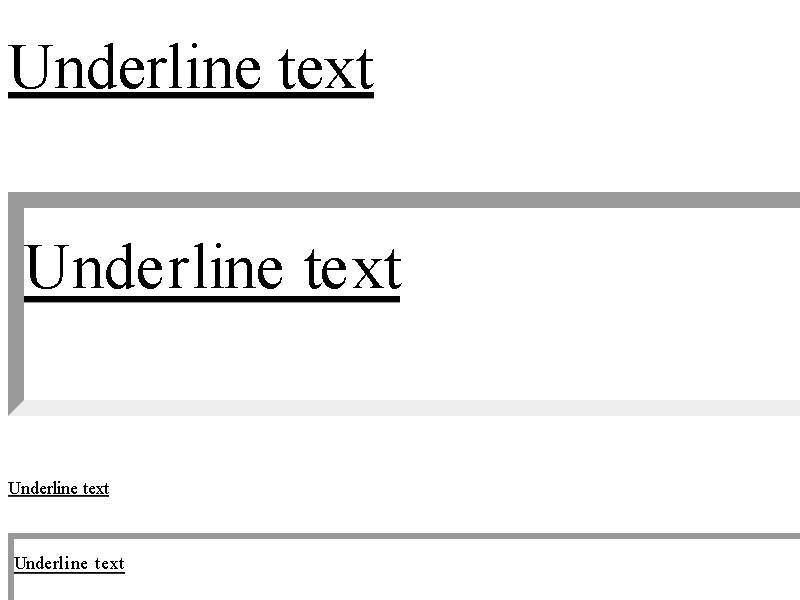
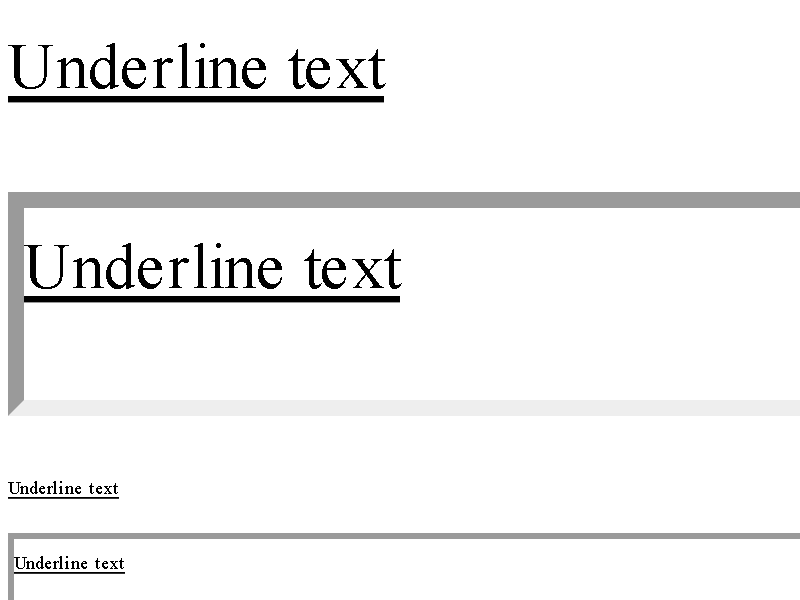
[svg] Disable outer transforms affecting font-size within SVG.
This was last tried in: https://codereview.chromium.org/2492013004 But
was reverted due to an issue with a site.

Since then we've added complex invalidation for this logic which
difficult to maintain, and relatively slow. Lets try disabling it again.

The code we can remove is:
https://chromium-review.googlesource.com/c/chromium/src/+/8280335

Behind the flag: SvgIgnoreOuterTransforms

Bug: 41286051
Commit-Queue: Ian Kilpatrick <ikilpatrick@chromium.org>
Cr-Commit-Position: refs/heads/main@{#1689023}

Changed region(s): [[0.0, 0.06, 0.5, 0.18], [0.0, 0.81, 0.1562, 0.84]]

diff --git a/renderer/core/layout/layout_block.cc b/renderer/core/layout/layout_block.cc
@@ -120,7 +120,8 @@ void LayoutBlock::StyleDidChange(
   // Computes old scaling factor before PaintLayer::UpdateTransform()
   // updates Layer()->Transform().
   double old_squared_scale = 1;
-  if (Layer() && diff.transform_changed && HasSVGTextDescendants()) {
+  if (!RuntimeEnabledFeatures::SvgIgnoreOuterTransformsEnabled() && Layer() &&
+      diff.transform_changed && HasSVGTextDescendants()) {
     old_squared_scale =
         ComputeSquaredLocalFontSizeScalingFactor(Layer()->Transform());
   }
@@ -144,7 +145,8 @@ void LayoutBlock::StyleDidChange(
 
   PropagateStyleToAnonymousChildren();
 
-  if (diff.transform_changed && HasSVGTextDescendants()) {
+  if (!RuntimeEnabledFeatures::SvgIgnoreOuterTransformsEnabled() &&
+      diff.transform_changed && HasSVGTextDescendants()) {
     const double new_squared_scale = ComputeSquaredLocalFontSizeScalingFactor(
         Layer() ? Layer()->Transform() : nullptr);
     // Compare local scale before and after.
@@ -339,6 +341,7 @@ void LayoutBlock::RemovePositionedObjects(LayoutObject* stay_within) {
 
 void LayoutBlock::AddSvgTextDescendant(LayoutSVGText& svg_text) {
   NOT_DESTROYED();
+  DCHECK(!RuntimeEnabledFeatures::SvgIgnoreOuterTransformsEnabled());
   auto result = View()->SvgTextDescendantsMap().insert(this, nullptr);
   if (result.is_new_entry) {
     result.stored_value->value =
@@ -350,6 +353,7 @@ void LayoutBlock::AddSvgTextDescendant(LayoutSVGText& svg_text) {
 
 void LayoutBlock::RemoveSvgTextDescendant(LayoutSVGText& svg_text) {
   NOT_DESTROYED();
+  DCHECK(!RuntimeEnabledFeatures::SvgIgnoreOuterTransformsEnabled());
   auto& map = View()->SvgTextDescendantsMap();
   auto it = map.find(this);
   if (it == map.end())

diff --git a/renderer/core/layout/svg/layout_svg_text.cc b/renderer/core/layout/svg/layout_svg_text.cc
@@ -53,7 +53,8 @@ void LayoutSVGText::StyleDidChange(
     const ComputedStyle& new_style,
     const StyleChangeContext& style_change_context) {
   NOT_DESTROYED();
-  if (needs_text_metrics_update_ && diff.HasDifference() && old_style) {
+  if (!RuntimeEnabledFeatures::SvgIgnoreOuterTransformsEnabled() &&
+      needs_text_metrics_update_ && diff.HasDifference() && old_style) {
     diff.SetNeedsFullLayout();
   }
   LayoutSVGBlock::StyleDidChange(diff, old_style, new_style,
@@ -115,6 +116,9 @@ void LayoutSVGText::RemoveChild(LayoutObject* child) {
 void LayoutSVGText::InsertedIntoTree() {
   NOT_DESTROYED();
   LayoutSVGBlock::InsertedIntoTree();
+  if (RuntimeEnabledFeatures::SvgIgnoreOuterTransformsEnabled()) {
+    return;
+  }
   bool seen_svg_root = false;
   for (auto* ancestor = Parent(); ancestor; ancestor = ancestor->Parent()) {
     auto* root = DynamicTo<LayoutSVGRoot>(ancestor);
@@ -129,6 +133,10 @@ void LayoutSVGText::InsertedIntoTree() {
 
 void LayoutSVGText::WillBeRemovedFromTree() {
   NOT_DESTROYED();
+  if (RuntimeEnabledFeatures::SvgIgnoreOuterTransformsEnabled()) {
+    LayoutSVGBlock::WillBeRemovedFromTree();
+    return;
+  }
   bool seen_svg_root = false;
   for (auto* ancestor = Parent(); ancestor; ancestor = ancestor->Parent()) {
     auto* root = DynamicTo<LayoutSVGRoot>(ancestor);

diff --git a/renderer/core/layout/svg/layout_svg_root.cc b/renderer/core/layout/svg/layout_svg_root.cc
@@ -312,7 +312,8 @@ void LayoutSVGRoot::StyleDidChange(
 
   SVGResources::UpdateEffects(*this, diff, old_style);
 
-  if (diff.transform_changed) {
+  if (!RuntimeEnabledFeatures::SvgIgnoreOuterTransformsEnabled() &&
+      diff.transform_changed) {
     for (auto& svg_text : text_set_) {
       svg_text->SetNeedsLayout(layout_invalidation_reason::kStyleChange,
                                kMarkContainerChain);
@@ -531,12 +532,14 @@ void LayoutSVGRoot::IntersectChildren(HitTestResult& result,
 
 void LayoutSVGRoot::AddSvgTextDescendant(LayoutSVGText& svg_text) {
   NOT_DESTROYED();
+  DCHECK(!RuntimeEnabledFeatures::SvgIgnoreOuterTransformsEnabled());
   DCHECK(!text_set_.Contains(&svg_text));
   text_set_.insert(&svg_text);
 }
 
 void LayoutSVGRoot::RemoveSvgTextDescendant(LayoutSVGText& svg_text) {
   NOT_DESTROYED();
+  DCHECK(!RuntimeEnabledFeatures::SvgIgnoreOuterTransformsEnabled());
   DCHECK(text_set_.Contains(&svg_text));
   text_set_.erase(&svg_text);
 }

diff --git a/renderer/core/layout/layout_view.cc b/renderer/core/layout/layout_view.cc
@@ -124,7 +124,8 @@ bool LayoutView::HitTest(const HitTestLocation& location,
                          HitTestResult& result) {
   NOT_DESTROYED();
   TRACE_EVENT0("blink", "LayoutView::HitTest");
-  if (HasSVGTextDescendants()) {
+  if (!RuntimeEnabledFeatures::SvgIgnoreOuterTransformsEnabled() &&
+      HasSVGTextDescendants()) {
     // This is necessary because SVG <text> might have obsolete geometry after
     // scale-only changes.  See crbug.com/1296089#c16
     auto it = svg_text_descendants_.find(this);

diff --git a/renderer/core/layout/svg/svg_layout_support.cc b/renderer/core/layout/svg/svg_layout_support.cc
@@ -58,6 +58,10 @@ AffineTransform DeprecatedCalculateTransformToLayer(
     layout_object = layout_object->Parent();
   }
 
+  if (RuntimeEnabledFeatures::SvgIgnoreOuterTransformsEnabled()) {
+    return transform;
+  }
+
   // Continue walking up the layer tree, accumulating CSS transforms.
   PaintLayer* layer = layout_object ? layout_object->EnclosingLayer() : nullptr;
   while (layer) {
